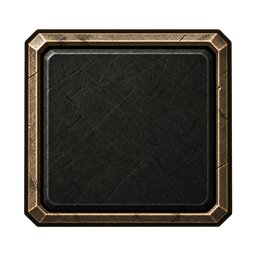
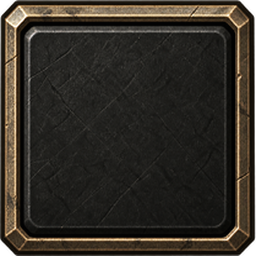
Strip the bar's frame, and let the hammer open the smithy
The padding was the plate art itself: it carried empty space around its frame,
so five touching buttons read as five separated ones with a gap at each end. The
plate is cropped to where its frame actually starts, the bar's own frame and
margin are gone, and the five now span the sidebar exactly — 66 each across 330.

The press did nothing because the smithy only opens for a province you hold, and
six of the eight are unclaimed. It says so now instead of going quiet, and the
first button along the bar opens it too, not only the Blacksmith tile.

diff --git a/scripts/UI/CampaignMapPage.cs b/scripts/UI/CampaignMapPage.cs
@@ -221,11 +221,18 @@ public partial class CampaignMapPage : Control
 	/// all exactly where they were when it closes.</summary>
 	private void OpenBuilding(string building)
 	{
-		ProvinceEconomy economy = _selected != null
-			? _turnManager.GetProvince(_provinces[_markers.IndexOf(_selected)].Name)
-			: null;
-		if (building != "Blacksmith" || economy == null || _blacksmith != null)
+		if (building != "Blacksmith" || _blacksmith != null)
 		{
+			return;
+		}
+
+		ProvinceData province = _provinces[_selected != null ? _markers.IndexOf(_selected) : 0];
+		ProvinceEconomy economy = _turnManager.GetProvince(province.Name);
+		if (economy == null)
+		{
+			// A province you do not hold has no smithy of yours in it. Say so rather than letting the
+			// press do nothing at all.
+			ShowSaveToast($"{province.Name} is not yours to forge in");
 			return;
 		}
 
@@ -433,6 +440,13 @@ public partial class CampaignMapPage : Control
 	// naming what belongs there. Replace a case with a real panel as that system gets built.
 	private void ShowSection(NavRail.Section section)
 	{
+		// Buildings is the one that opens onto somewhere real: the smithy of the province in hand.
+		if (section == NavRail.Section.Buildings)
+		{
+			OpenBuilding("Blacksmith");
+			return;
+		}
+
 		_sectionTitle.Text = section switch
 		{
 			NavRail.Section.Chronicle => "Chronicle",
